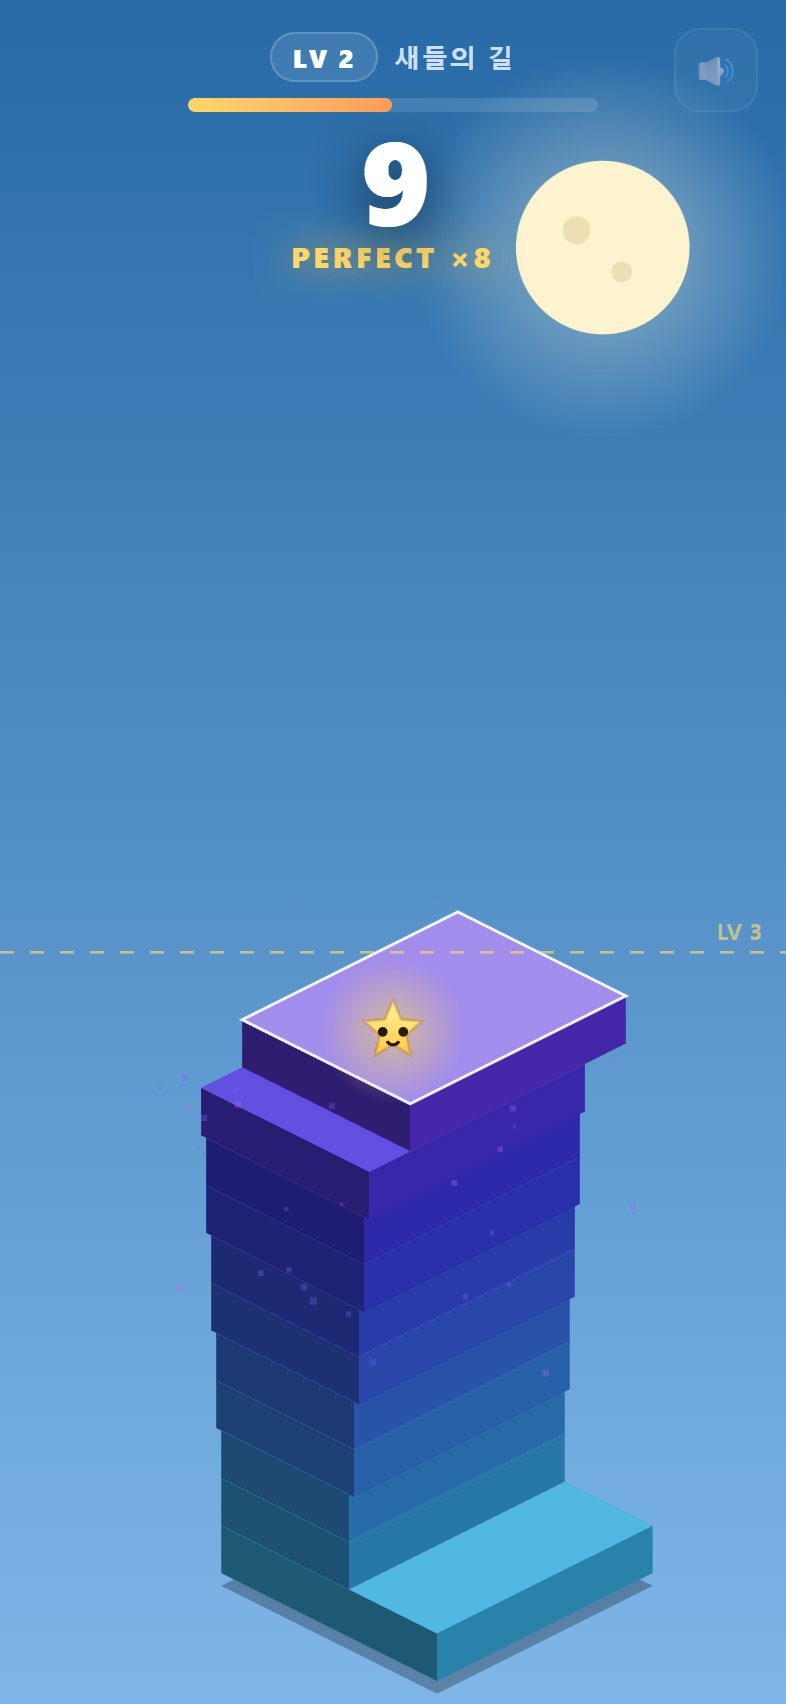
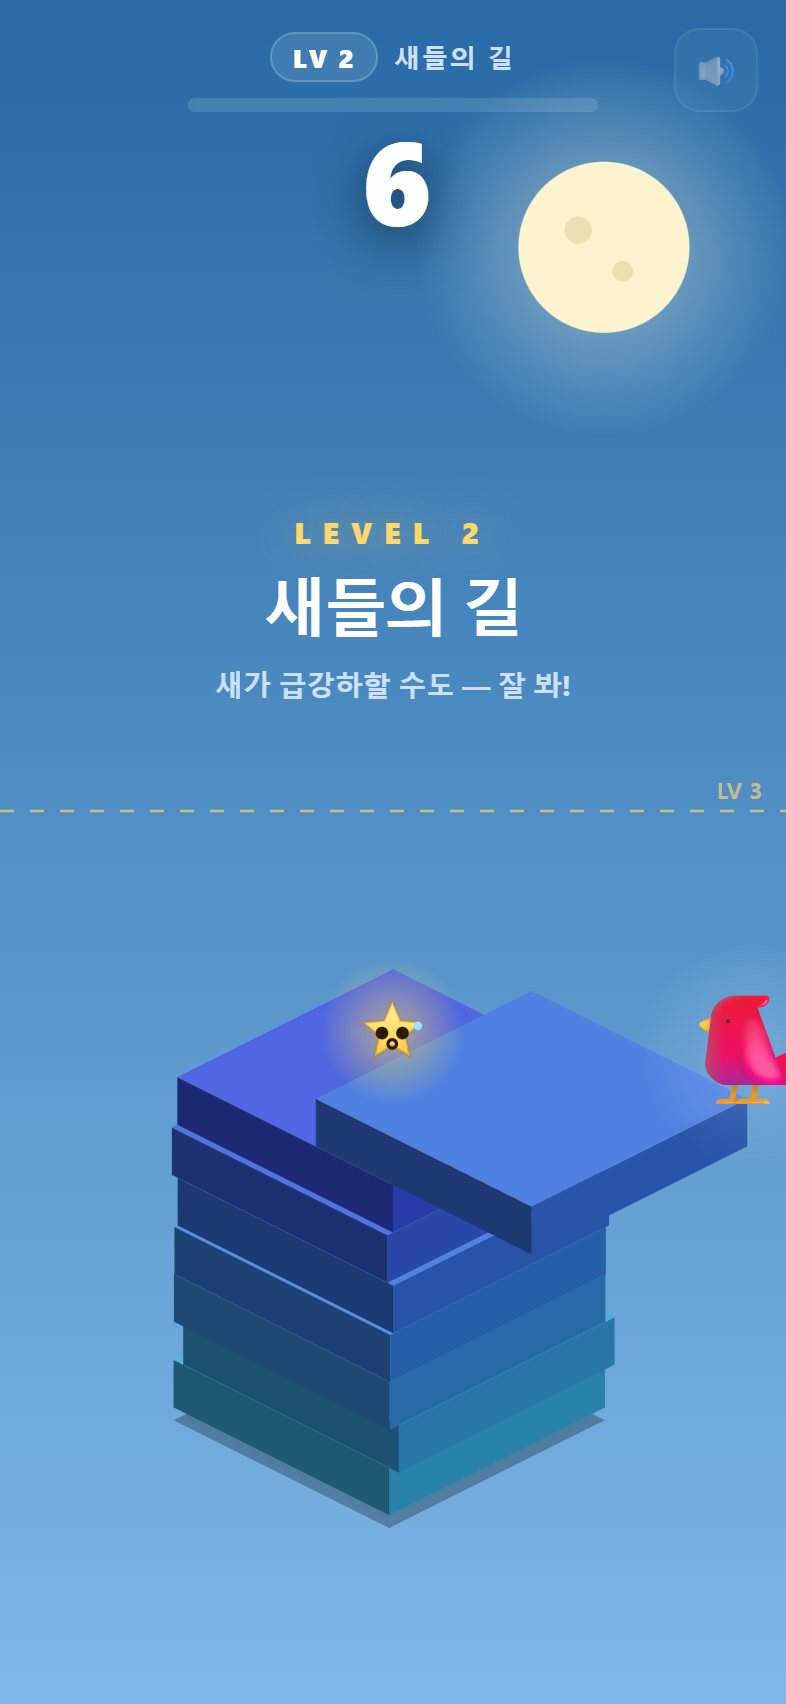
feat: 방해물 동적 랜덤 AI — 11종 패턴(wave/dive/arc/zigzag/stalk/hover/...) + 개체별 속도·크기·높이·방향·버스트 무작위화

diff --git a/index.html b/index.html
@@ -146,6 +146,7 @@
 const clamp = (v, a, b) => (v < a ? a : v > b ? b : v);
 const lerp  = (a, b, t) => a + (b - a) * t;
 const rnd   = (a, b) => a + Math.random() * (b - a);
+const pick  = a => a[(Math.random() * a.length) | 0];
 
 /* ═══════════ canvas ═══════════ */
 const cvs = document.getElementById('c');
@@ -175,18 +176,19 @@ const GOAL = 6;                 // 레벨당 필요 층수 → 총 60층 = 달
 const hueFor = lv => (198 + lv * 5.5) % 360;
 
 /* ═══════════ 레벨 구성 (10) ═══════════ */
-// type: null(없음) | fly | walker | diag | rise | strike
+// 매 방해물은 출현 때마다 pats 에서 무작위 패턴 + 무작위 속도/크기/높이/방향으로 움직인다
+// 패턴: straight wave dive arc zigzag stalk rise driftRise drift hover strike
 const LV = [
-  { n:'동네 지붕',   h:'탭으로 블록을 쌓아 올려라',         obs:null,                                  top:'#2a5b9c', bot:'#6fb0e6' },
-  { n:'새들의 길',   h:'새가 지나갈 땐 — 쌓지 마!',         obs:{e:'🐦',type:'fly',   spd:135,sz:56,every:2.3}, top:'#276aa6', bot:'#7fb6e8' },
-  { n:'구름 바다',   h:'구름이 덮칠 때 기다려',             obs:{e:'☁',type:'fly',   spd:78, sz:98,every:2.7}, top:'#3a6fb0', bot:'#a9c8e8' },
-  { n:'연의 축제',   h:'연을 피해 타이밍 맞춰',             obs:{e:'🪁',type:'diag',  spd:120,sz:64,every:2.1,vy:18}, top:'#345fa0', bot:'#9fc0e6' },
-  { n:'풍선 마을',   h:'풍선이 뜰 때 비켜!',                obs:{e:'🎈',type:'rise',  spd:0,  sz:58,every:2.0,vy:-46},top:'#5a4a9c', bot:'#c9a0e0' },
-  { n:'유령의 숲',   h:'유령이 스쳐갈 때 멈춰',             obs:{e:'👻',type:'fly',   spd:118,sz:60,every:1.9}, top:'#243a6b', bot:'#3a5a8c' },
-  { n:'구름 고양이', h:'고양이가 지나갈 때까지 기다려',     obs:{e:'🐱',type:'walker',spd:62, sz:66,every:2.9,pause:1.1}, top:'#1f3560', bot:'#3556a0' },
-  { n:'번개 구름',   h:'번개가 치는 순간 피해!',            obs:{e:'⚡',type:'strike',spd:0,  sz:62,every:2.2}, top:'#15173a', bot:'#2a2f60' },
-  { n:'유성우',      h:'유성을 피해 쌓아 올려',             obs:{e:'☄',type:'diag',  spd:300,sz:54,every:1.4,vy:80}, top:'#0c1030', bot:'#1a2050' },
-  { n:'달의 곶',     h:'달님을 향해 — 마지막이다!',         obs:{e:'☄',type:'diag',  spd:240,sz:52,every:1.15,vy:66},top:'#070a20', bot:'#10183c', final:true },
+  { n:'동네 지붕',   h:'탭으로 블록을 쌓아 올려라',         obs:null,                                                                     top:'#2a5b9c', bot:'#6fb0e6' },
+  { n:'새들의 길',   h:'새가 급강하할 수도 — 잘 봐!',       obs:{e:'🐦', spd:135, sz:56, every:2.3, pats:['wave','wave','dive','straight']},         top:'#276aa6', bot:'#7fb6e8' },
+  { n:'구름 바다',   h:'구름이 덮칠 때 기다려',             obs:{e:'☁', spd:74,  sz:100,every:2.7, pats:['drift','straight','wave']},                  top:'#3a6fb0', bot:'#a9c8e8' },
+  { n:'연의 축제',   h:'연의 궤적을 읽어라',                obs:{e:'🪁', spd:120, sz:64, every:2.1, pats:['arc','zigzag']},                            top:'#345fa0', bot:'#9fc0e6' },
+  { n:'풍선 마을',   h:'풍선이 뜰 때 비켜!',                obs:{e:'🎈', spd:30,  sz:58, every:2.0, pats:['rise','driftRise'], vy:-48},                  top:'#5a4a9c', bot:'#c9a0e0' },
+  { n:'유령의 숲',   h:'유령은 예측 불가 — 집중해',         obs:{e:'👻', spd:108, sz:60, every:1.9, pats:['drift','hover','wave']},                     top:'#243a6b', bot:'#3a5a8c' },
+  { n:'구름 고양이', h:'고양이가扑힐 때 숨죽여!',            obs:{e:'🐱', spd:64,  sz:66, every:2.9, pats:['stalk','stalk','straight']},                  top:'#1f3560', bot:'#3556a0' },
+  { n:'번개 구름',   h:'번개가 치는 순간 피해!',            obs:{e:'⚡', spd:0,   sz:62, every:2.2, pats:['strike']},                                    top:'#15173a', bot:'#2a2f60' },
+  { n:'유성우',      h:'유성이 쏟아진다 — 틈을 노려라',     obs:{e:'☄', spd:300, sz:54, every:1.4, pats:['arc'], burst:0.45, vy:80},                    top:'#0c1030', bot:'#1a2050' },
+  { n:'달의 곶',     h:'달님을 향해 — 마지막이다!',         obs:{e:'☄', spd:250, sz:52, every:1.1, pats:['arc'], burst:0.55, vy:66},                    top:'#070a20', bot:'#10183c', final:true },
 ];
 
 /* ═══════════ state ═══════════ */
@@ -199,7 +201,7 @@ let maxLevel = load('stakka2.maxlevel', 1);
 let muted = load('stakka2.mute', 0) === 1;
 let camX = 0, camY = 0, camLv = 0, anchorY = ANCHOR_MENU;
 let shake = 0, flash = 0, overAt = 0, lastT = 0;
-let obsTimer = 0, bannerUntil = 0;
+let obsTimer = 0, obsNext = 0, bannerUntil = 0;
 let mascot = { mood:'idle', bounce:0, spin:0, sweat:0 };
 
 function load(k, d) { try { const v = localStorage.getItem(k); return v === null ? d : (parseInt(v, 10) || 0); } catch (e) { return d; } }
@@ -284,7 +286,7 @@ function startLevel(level) {
   currentLevel = clamp(level, 1, 10);
   buildFoundation(currentLevel);
   debris = []; ripples = []; sparks = []; obstacles = [];
-  combo = 0; mover = null; shake = 0; flash = 0; obsTimer = 0;
+  combo = 0; mover = null; shake = 0; flash = 0; obsTimer = 0; obsNext = 0;
   score = blocks[blocks.length - 1].level;
   snapCam();
   spawn();
@@ -385,7 +387,7 @@ function place() {
     currentLevel++;
     maxLevel = Math.max(maxLevel, currentLevel);
     save('stakka2.maxlevel', maxLevel);
-    obstacles = []; obsTimer = 0;
+    obstacles = []; obsTimer = 0; obsNext = 0;
     flash = 0.4; shake = Math.max(shake, 6);
     sfxLevel(); buzz([20, 40, 60]);
     updateHUD();
@@ -450,61 +452,112 @@ function topCenterScreen() {
 function spawnObs() {
   const cfg = LV[currentLevel - 1].obs;
   if (!cfg) return;
-  const fromLeft = Math.random() < 0.5;
-  const o = { e: cfg.e, sz: cfg.sz, type: cfg.type, t: 0, active: true, hitW: cfg.sz * 0.78 };
   const tc = topCenterScreen();
-  if (cfg.type === 'strike') {
-    o.x = rnd(W * 0.18, W * 0.82); o.y = tc.y; o.phase = 'warn'; o.tw = 0.75; o.hitW = cfg.sz * 1.5;
-  } else if (cfg.type === 'rise') {
-    o.x = rnd(W * 0.15, W * 0.85); o.y = H + cfg.sz; o.vx = rnd(-12, 12); o.vy = cfg.vy;
-  } else if (cfg.type === 'diag') {
-    o.x = fromLeft ? -cfg.sz : W + cfg.sz; o.y = tc.y - 240;
-    o.vx = (fromLeft ? 1 : -1) * cfg.spd; o.vy = cfg.vy || 40;
-  } else if (cfg.type === 'walker') {
-    o.x = fromLeft ? -cfg.sz : W + cfg.sz; o.y = tc.y; o.vx = (fromLeft ? 1 : -1) * cfg.spd;
-    o.pauseT = cfg.pause; o.pausing = 0;
-  } else { // fly
-    o.x = fromLeft ? -cfg.sz : W + cfg.sz; o.y = tc.y; o.vx = (fromLeft ? 1 : -1) * cfg.spd;
+  // 동시 출현(버스트) — 유성/연이 여러 개 몰려온다
+  let count = 1;
+  if (cfg.burst && Math.random() < cfg.burst) count = 2 + (Math.random() < 0.4 ? 1 : 0);
+  for (let k = 0; k < count; k++) spawnOne(cfg, tc, k * rnd(0.12, 0.3));
+}
+
+function spawnOne(cfg, tc, delay) {
+  const side = Math.random() < 0.5 ? 1 : -1;             // 1=좌→우, -1=우→좌
+  const sm = rnd(0.82, 1.22);                            // 크기 변동
+  const vm = rnd(0.75, 1.4) * (1 + currentLevel * 0.02); // 속도 변동 + 레벨 가속
+  const sz = cfg.sz * sm;
+  const baseY = tc.y + rnd(-VS * 30, VS * 22);           // 높이 변동
+  const pat = cfg.pats ? pick(cfg.pats) : 'straight';
+  const spd = (cfg.spd || 0) * vm;
+  const o = { e: cfg.e, sz, pat, t: -delay, active: true, hitW: sz * 0.72, baseY, side };
+  const startX = side > 0 ? -sz * 1.6 : W + sz * 1.6;
+
+  if (pat === 'strike') {
+    o.x = rnd(W * 0.16, W * 0.84); o.y = tc.y; o.phase = 'idle'; o.tw = rnd(0.55, 0.95);
+    o.double = Math.random() < 0.28; o.hitW = sz * 1.4; obstacles.push(o); return;
   }
+  o.x = startX; o.ox = startX; o.y = baseY; o.vx = side * spd; o.vy = 0;
+
+  if (pat === 'wave')            { o.amp = rnd(16, 38); o.freq = rnd(3.5, 6.5); o.ph = rnd(0, 6.28); }
+  else if (pat === 'dive')       { o.phase = 'cruise'; o.diveAt = rnd(0.5, 1.3); o.vy = 0; }
+  else if (pat === 'arc')        { o.y = baseY - VS * 120; o.vy = (cfg.vy || 50) * rnd(0.7, 1.3); o.grav = 360; o.trail = []; }
+  else if (pat === 'zigzag')     { o.ampX = rnd(18, 34); o.freqX = rnd(3, 5.5); o.phx = rnd(0, 6.28); }
+  else if (pat === 'stalk')      { o.phase = 'creep'; o.dashAt = rnd(0.8, 1.5); o.vx = side * spd * 0.38; o.baseVx = side * spd * 1.8; }
+  else if (pat === 'rise')       { o.y = H + sz; o.vy = (cfg.vy || -50) * vm; o.vx = rnd(-22, 22); }
+  else if (pat === 'driftRise')  { o.y = H + sz; o.vy = (cfg.vy || -50) * vm; o.ampX = rnd(18, 38); o.freqX = rnd(2, 4); o.phx = rnd(0, 6.28); }
+  else if (pat === 'drift')      { o.vy = rnd(-26, 26); o.jit = rnd(0, 6.28); }
+  else if (pat === 'hover')      { o.x = o.ox = rnd(W * 0.28, W * 0.72); o.leaveAt = rnd(1.1, 2.0); o.amp = rnd(10, 22); o.freq = rnd(3, 5.5); o.ph = rnd(0, 6.28); o.exited = false; }
   obstacles.push(o);
 }
 
 function updateObs(dt) {
   const cfg = LV[currentLevel - 1].obs;
-  if (cfg && state === 'play' && performance.now() > bannerUntil - 1400) {
+  if (cfg && state === 'play' && performance.now() > bannerUntil - 1200) {
     obsTimer += dt;
-    if (obsTimer >= cfg.every) { obsTimer = 0; spawnObs(); }
+    if (obsTimer >= obsNext) { obsTimer = 0; obsNext = cfg.every * rnd(0.62, 1.25); spawnObs(); }
   }
   const tc = topCenterScreen();
   for (let i = obstacles.length - 1; i >= 0; i--) {
     const o = obstacles[i]; o.t += dt;
-    if (o.type === 'strike') {
-      o.y = tc.y;
-      if (o.phase === 'warn') { o.tw -= dt; if (o.tw <= 0) { o.phase = 'strike'; o.ts = 0.32; } }
-      else if (o.phase === 'strike') { o.ts -= dt; if (o.ts <= 0) o.active = false; }
-    } else if (o.type === 'fly' || o.type === 'walker') {
-      o.y = tc.y;
-      if (o.type === 'walker' && o.pausing > 0) { o.pausing -= dt; }
-      else { o.x += o.vx * dt; if (o.type === 'walker' && Math.abs(o.x - W / 2) < 14 && o.pausing <= 0 && o.pauseT) o.pausing = o.pauseT; }
-    } else { // diag / rise
-      o.x += o.vx * dt; o.y += o.vy * dt;
+    if (o.t < 0) continue;                       // 지연 출현 대기
+    switch (o.pat) {
+      case 'strike':
+        o.y = tc.y;
+        if (o.phase === 'idle')       { o.tw -= dt; if (o.tw <= 0) { o.phase = 'strike'; o.ts = 0.30; } }
+        else if (o.phase === 'strike'){ o.ts -= dt; if (o.ts <= 0) o.active = false; }
+        break;
+      case 'wave':
+        o.x += o.vx * dt; o.y = o.baseY + Math.sin(o.t * o.freq + o.ph) * o.amp; o.flap = Math.sin(o.t * 18);
+        break;
+      case 'dive':
+        o.x += o.vx * dt;
+        if (o.phase === 'cruise')      { o.y = o.baseY + Math.sin(o.t * 4) * 4; if (o.t > o.diveAt) { o.phase = 'dive'; o.vy = 60; } }
+        else if (o.phase === 'dive')   { o.vy += 1000 * dt; o.y += o.vy * dt; if (o.y > tc.y + o.sz * 0.2) { o.phase = 'recover'; o.vy = -720; } }
+        else if (o.phase === 'recover'){ o.y += o.vy * dt; if (o.y < o.baseY) { o.y = o.baseY; o.phase = 'cruise'; } }
+        break;
+      case 'arc':
+        o.x += o.vx * dt; o.vy += o.grav * dt; o.y += o.vy * dt;
+        o.trail.push({ x: o.x, y: o.y }); if (o.trail.length > 8) o.trail.shift();
+        break;
+      case 'zigzag':
+        o.ox += o.vx * dt; o.x = o.ox + Math.sin(o.t * o.freqX + o.phx) * o.ampX;
+        break;
+      case 'stalk':
+        o.x += o.vx * dt;
+        if (o.phase === 'creep' && o.t > o.dashAt) { o.phase = 'dash'; o.vx = o.baseVx; o.squish = 1; }
+        if (o.squish > 0) o.squish = Math.max(0, o.squish - dt * 4);
+        break;
+      case 'rise':
+        o.y += o.vy * dt; o.x += o.vx * dt; o.bob = Math.sin(o.t * 3) * 0.06;
+        break;
+      case 'driftRise':
+        o.ox += (o.vx || 0) * dt; o.y += o.vy * dt; o.x = o.ox + Math.sin(o.t * o.freqX + o.phx) * o.ampX;
+        break;
+      case 'drift':
+        o.jit += dt; o.vy += Math.sin(o.jit * 2.3) * 60 * dt; o.vy = clamp(o.vy, -70, 70);
+        o.x += o.vx * dt; o.y += o.vy * dt; o.y = clamp(o.y, tc.y - o.sz * 2.4, tc.y + o.sz * 1.2);
+        o.flick = 0.55 + 0.3 * Math.abs(Math.sin(o.t * 2));
+        break;
+      case 'hover':
+        if (!o.exited) {
+          o.y = o.baseY + Math.sin(o.t * o.freq + o.ph) * o.amp;
+          if (o.t > o.leaveAt) { o.exited = true; o.vx = (o.x < W / 2 ? -1 : 1) * 260; o.vy = 0; }
+        } else { o.x += o.vx * dt; }
+        o.flick = 0.5 + 0.35 * Math.abs(Math.sin(o.t * 2.4));
+        break;
+      default: o.x += o.vx * dt;                       // straight
     }
-    if (!o.active || o.x < -160 || o.x > W + 160 || o.y < -320 || o.y > H + 320) obstacles.splice(i, 1);
+    if (!o.active || o.x < -200 || o.x > W + 200 || o.y < -360 || o.y > H + 360) obstacles.splice(i, 1);
   }
 }
 
+function colX(o, m) { const ox1 = o.x - o.hitW / 2, ox2 = o.x + o.hitW / 2; return ox2 > m.minX && ox1 < m.maxX; }
 function inDanger() {
   if (!mover) return null;
   const m = moverExt(); if (!m) return null;
   const tc = topCenterScreen();
   for (const o of obstacles) {
-    if (!o.active) continue;
-    if (o.type === 'strike' && o.phase !== 'strike') continue;
-    let nearY = true;
-    if (o.type === 'diag' || o.type === 'rise') nearY = Math.abs(o.y - tc.y) < o.sz;
-    if (!nearY) continue;
-    const ox1 = o.x - o.hitW / 2, ox2 = o.x + o.hitW / 2;
-    if (ox2 > m.minX && ox1 < m.maxX) return o;
+    if (!o.active || o.t < 0) continue;
+    if (o.pat === 'strike') { if (o.phase === 'strike' && colX(o, m)) return o; }
+    else if (Math.abs(o.y - tc.y) <= o.sz && colX(o, m)) return o;   // 탑 꼭대기 수직 밴드 + 가로 겹침
   }
   return null;
 }
@@ -756,30 +809,52 @@ function render() {
 }
 
 function drawObstacle(o, sx, sy) {
-  const x = o.x + sx, y = o.y + sy;
   ctx.save();
-  if (o.type === 'strike') {
-    if (o.phase === 'warn') {
-      const a = 0.3 + 0.25 * Math.sin(performance.now() / 60);
-      const grd = ctx.createLinearGradient(x, 0, x, H);
-      grd.addColorStop(0, `rgba(255,230,90,${a * 0.1})`); grd.addColorStop(0.5, `rgba(255,200,60,${a})`); grd.addColorStop(1, `rgba(255,230,90,${a * 0.1})`);
-      ctx.fillStyle = grd; ctx.fillRect(x - o.hitW / 2, 0, o.hitW, H);
-      ctx.fillStyle = `rgba(255,220,80,${a})`; ctx.font = (o.sz) + 'px system-ui'; ctx.textAlign = 'center'; ctx.textBaseline = 'middle';
-      ctx.fillText('⚡', x, y - o.sz * 0.7);
-    } else {
-      ctx.fillStyle = '#fff7c0'; ctx.fillRect(x - o.hitW / 2, 0, o.hitW, H);
-      ctx.shadowColor = '#ffe060'; ctx.shadowBlur = 30; ctx.fillStyle = '#fff';
-      ctx.font = (o.sz * 1.3) + 'px system-ui'; ctx.textAlign = 'center'; ctx.textBaseline = 'middle'; ctx.fillText('⚡', x, y);
+  ctx.textAlign = 'center'; ctx.textBaseline = 'middle';
+  const px = o.x + sx, py = o.y + sy;
+
+  if (o.pat === 'strike') {
+    if (o.phase === 'idle') {                                    // 경고
+      const a = 0.3 + 0.25 * Math.sin(performance.now() / 55);
+      const grd = ctx.createLinearGradient(px, 0, px, H);
+      grd.addColorStop(0, `rgba(255,230,90,${a*0.1})`); grd.addColorStop(0.5, `rgba(255,200,60,${a})`); grd.addColorStop(1, `rgba(255,230,90,${a*0.1})`);
+      ctx.fillStyle = grd; ctx.fillRect(px - o.hitW / 2, 0, o.hitW, H);
+      ctx.fillStyle = `rgba(255,220,80,${a})`; ctx.font = o.sz + 'px system-ui'; ctx.fillText('⚡', px, py - o.sz * 0.7);
+    } else {                                                     // 타격
+      ctx.fillStyle = '#fff7c0'; ctx.fillRect(px - o.hitW / 2, 0, o.hitW, H);
+      ctx.shadowColor = '#ffe060'; ctx.shadowBlur = 34; ctx.fillStyle = '#fff';
+      ctx.font = (o.sz * 1.35) + 'px system-ui'; ctx.fillText('⚡', px, py);
     }
-  } else {
-    // 그림자/글로우
-    const gl = ctx.createRadialGradient(x, y, 0, x, y, o.sz);
-    gl.addColorStop(0, 'rgba(255,255,255,.18)'); gl.addColorStop(1, 'rgba(255,255,255,0)');
-    ctx.fillStyle = gl; ctx.fillRect(x - o.sz, y - o.sz, o.sz * 2, o.sz * 2);
-    ctx.font = (o.sz) + 'px system-ui'; ctx.textAlign = 'center'; ctx.textBaseline = 'middle';
-    ctx.globalAlpha = o.e === '👻' ? 0.82 : 1;
-    ctx.fillText(o.e, x, y);
+    ctx.restore(); return;
   }
+
+  // 유성/연 꼬리
+  if (o.pat === 'arc' && o.trail) {
+    for (let i = 0; i < o.trail.length; i++) {
+      const t = o.trail[i], k = i / o.trail.length;
+      ctx.globalAlpha = k * 0.4; ctx.font = (o.sz * (0.4 + k * 0.6)) + 'px system-ui';
+      ctx.fillText(o.e, t.x + sx, t.y + sy);
+    }
+    ctx.globalAlpha = 1;
+  }
+
+  // 글로우
+  const gl = ctx.createRadialGradient(px, py, 0, px, py, o.sz);
+  gl.addColorStop(0, 'rgba(255,255,255,.16)'); gl.addColorStop(1, 'rgba(255,255,255,0)');
+  ctx.fillStyle = gl; ctx.fillRect(px - o.sz, py - o.sz, o.sz * 2, o.sz * 2);
+
+  ctx.font = o.sz + 'px system-ui';
+  ctx.globalAlpha = (o.e === '👻') ? (o.flick || 0.7) : 1;
+
+  // 퍼덕임(새) / 급강하 회전 / 대시 늘어남(고양이) / 떠오름 기울임(풍선)
+  let sx2 = 1, sy2 = 1, rot = 0;
+  if (o.pat === 'wave')      { sy2 = 0.82 + 0.18 * Math.abs(o.flap || 0); sx2 = 1.12 - 0.12 * Math.abs(o.flap||0); }
+  else if (o.pat === 'dive') { rot = (o.phase === 'recover') ? -0.5 : (o.phase === 'dive' ? 0.7 : 0); }
+  else if (o.pat === 'stalk'){ sx2 = 1 + (o.squish || 0) * 0.4; sy2 = 1 - (o.squish || 0) * 0.2; }
+  else if (o.pat === 'rise' || o.pat === 'driftRise') { rot = o.bob || 0; }
+
+  ctx.translate(px, py); ctx.scale(sx2, sy2); ctx.rotate(rot);
+  ctx.fillText(o.e, 0, 0);
   ctx.restore();
 }
 

diff --git a/test.js b/test.js
@@ -60,7 +60,8 @@ ok(T.score===6,'score 6');
 /* 3. 장애물이 덮칠 때 place → hitFail(over) */
 // mover의 화면 중앙에 장애물 강제 배치
 const me = T.moverExt();
-T.obstacles.push({ e:'🐦', type:'fly', sz:56, active:true, hitW:44, x:me.cx, y:me.cy });
+// 새 판정: 탑 꼭대기 중심(tc.y) 밴드 안 + 가로 겹침이어야 위험
+T.obstacles.push({ e:'🐦', pat:'fly', t:1, sz:56, active:true, hitW:44, x:me.cx, y:T.topCenterScreen().y });
 ok(T.inDanger()!==null,'inDanger detects obstacle over mover');
 T.place();
 ok(T.state==='over','placing under obstacle → game over');

diff --git a/README.md b/README.md
@@ -32,6 +32,9 @@
 
 쌓기 타이밍과 방해물 회피 타이밍 — **두 겹의 타이밍** 이 얽히며, 원작보다 훨씬 깊어졌다.
 
+- **방해물은 매번 다르게 움직인다** — 같은 새라도 속도·크기·높이·방향이 전부 랜덤.
+  파도치듯 흔들리며 나르거나(🐦), 급강하 후 복귀하거나(🐦), 포물선으로 떨어지거나(☄),
+  슬금슬금 다가오다 확 달려들거나(🐱), 제자리에 맴돌기도(👻) 한다. **패턴을 외울 수 없다.**
 - 10개 레벨 = 10개의 하늘 구역. 클리어할 때마다 배경·방해물이 바뀐다
 - 레벨 클리어마다 **체크포인트 저장** — 죽으면 해당 레벨부터 다시
 - 끝까지 올라가면 **달에 도착** 하는 엔딩
@@ -88,15 +91,15 @@ https://midasyoo.github.io/stakka2/
 | LV | 구역 | 방해물 | 힌트 |
 |---:|---|:---:|---|
 | 1 | 동네 지붕 | — | 연습. 편하게 쌓아보자 |
-| 2 | 새들의 길 | 🐦 | 새가 지나갈 땐 쌓지 마 |
-| 3 | 구름 바다 | ☁ | 구름이 덮칠 때 기다려 |
-| 4 | 연의 축제 | 🪁 | 연이 대각선으로 스쳐 간다 |
-| 5 | 풍선 마을 | 🎈 | 풍선이 아래서 떠오른다 |
-| 6 | 유령의 숲 | 👻 | 반투명 유령이 스멀스멀 |
-| 7 | 구름 고양이 | 🐱 | 고양이가 한가롭게 멈춰 선다 |
-| 8 | 번개 구름 | ⚡ | 번개가 치는 순간 피해! |
-| 9 | 유성우 | ☄ | 유성이 빠르게 쏟아진다 |
-| 10 | 달의 곶 | ☄ | 마지막 — 달님이 기다린다 |
+| 2 | 새들의 길 | 🐦 | 흔들리며 나르거나 급강하 — 패턴이 매번 달라 |
+| 3 | 구름 바다 | ☁ | 느린 구름이 예측 불가하게 덮친다 |
+| 4 | 연의 축제 | 🪁 | 지그재그·포물선으로 스쳐 간다 |
+| 5 | 풍선 마을 | 🎈 | 풍선이 아래서 흔들리며 떠오른다 |
+| 6 | 유령의 숲 | 👻 | 반투명 유령이 제멋대로 맴돈다 |
+| 7 | 구름 고양이 | 🐱 | 슬금슬금 다가오다 확 달려든다(扑힌다) |
+| 8 | 번개 구름 | ⚡ | 경고 후 번개가 치는 순간 피해! |
+| 9 | 유성우 | ☄ | 유성이 여러 발씩 포물선으로 쏟아진다 |
+| 10 | 달의 곶 | ☄ | 마지막 — 유성 폭풍 속 달님이 기다린다 |
 
 ---
 
